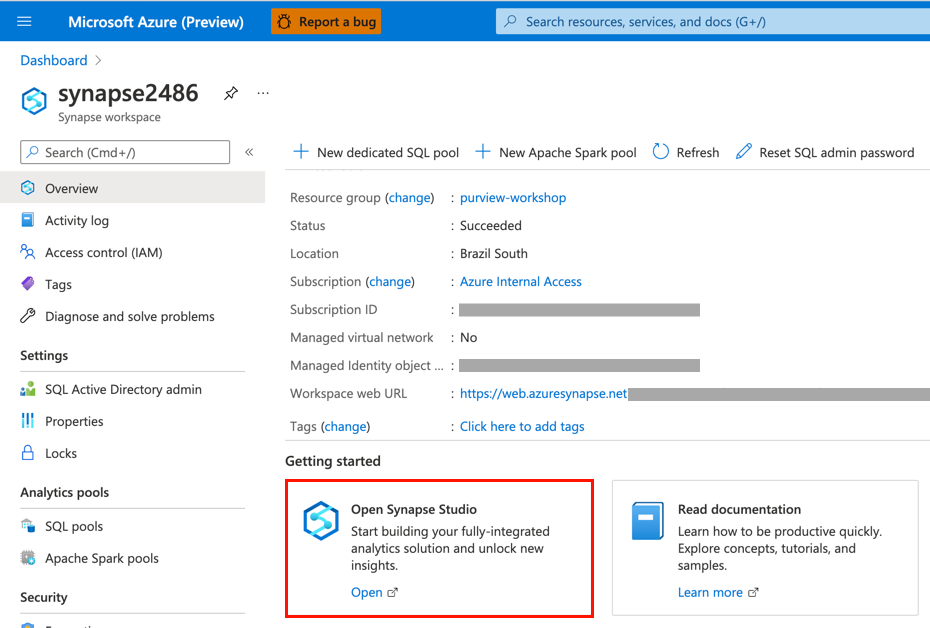
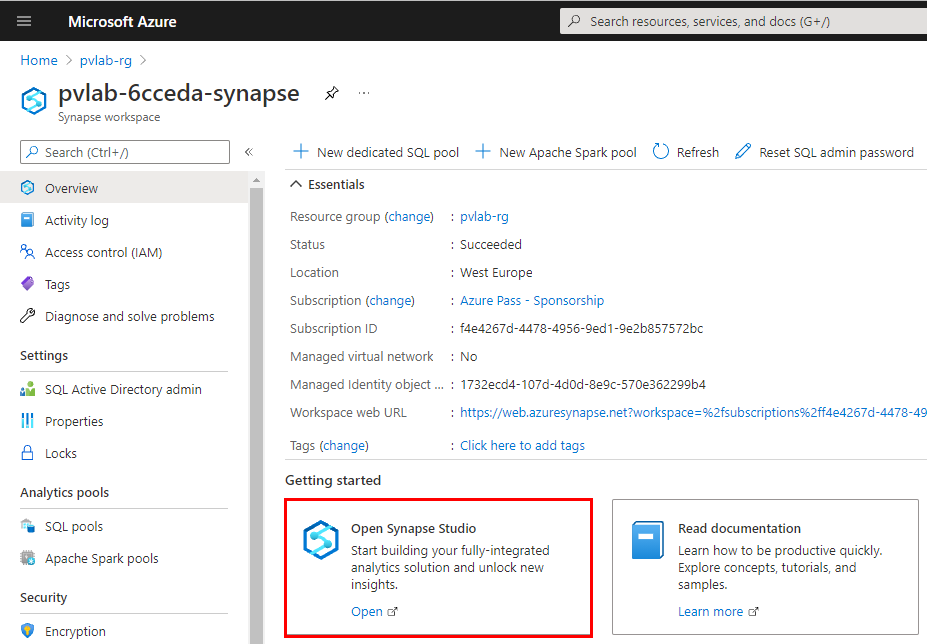
module09

Changed region(s): [[0.0, 0.2118, 1.0, 1.0], [0.0, 0.0, 1.0, 0.5143]]

diff --git a/modules/module09.md b/modules/module09.md
@@ -10,7 +10,7 @@
 
 ## :loudspeaker: Introduction
 
-Registering an Azure Purview account to a Synapse workspace allows you to discover Azure Purview assets and interact with them through Synapse specific capabilities.
+Registering an Azure Purview account to a Synapse workspace allows you to discover Azure Purview assets, interact with them through Synapse specific capabilities, and push lineage information to Azure Purview.
 
 ## :dart: Objectives
 
@@ -28,8 +28,11 @@ Registering an Azure Purview account to a Synapse workspace allows you to discov
 
 ## 1. Azure Data Lake Storage Gen2 Account Access
 
-* This particular unit builds upon  previous modules (e.g. pre-provisioned Azure Purview account with an Azure Data Lake Storage Gen2 account registered and scanned, see prerequisites for more details).
-* While this exercise will focus on how to integrate Azure Purview with Azure Synapse Analytics, if you would like to test the ability to connect to external sources within Synapse Studio, you will need to ensure the account being used to perform ad-hoc queries has sufficient privileges (e.g. Storage Blob Data Reader).
+> :bulb: **Did you know?**
+>
+> One of the key benefits of integrating Azure Purview with Azure Synapse Analytics, is the ability to discover Azure Purview assets from within Synapse Studio (i.e. no need to swtich between experiences) with the added ability to interact using Synapse specific capabilities (e.g. SELECT TOP 100). 
+>
+> Note: Before we can demonstrate the ability to query external data sources from Azure Synapse Analytics, we need to ensure our account has the appropriate level of access (i.e. `Storage Blob Data Reader`).
 
 1. Navigate to the **Access Control (IAM)** screen within the Azure Data Lake Storage Gen2 account provisioned in [module 02](../modules/module02.md) and click **Add role assignments**.
 
@@ -44,41 +47,6 @@ Registering an Azure Purview account to a Synapse workspace allows you to discov
     | Select | `<account-name>` |
 
     ![Storage RBAC Assignment](../images/module09/09.02-storage-rbac.png)
-
-<div align="right"><a href="#module-09---integrate-with-azure-synapse-analytics">↥ back to top</a></div>
-
-## 2. Create an Azure Synapse Analytics Workspace
-
-1. Navigate to the Azure Portal and create an **Azure Synapse Analytics** resource.
-
-    ![Azure Marketplace Synapse](../images/module09/09.03-marketplace-synapse.png)
-
-2. Provide the necessary inputs on the **Basics** tab and click **Next: Security >**.
-
-    > Note: The table below provides example values for illustrative purposes only, ensure to specify values that make sense for your deployment.
-
-    | Parameter  | Example Value |
-    | --- | --- |
-    | Subscription | `Azure Internal Access` |
-    | Resource group | `purview-workshop` |
-    | Workspace name | `synapse2486` |
-    | Region | `Brazil South` |
-    | (ADLS Gen2) Account name | `(Create new) synapseadls2486` |
-    | (ADLS Gen2)  File system name | `(Create new) synapsefs2486` |
-
-    ![Create Synapse Workspace](../images/module09/09.04-synapse-basics.png)
-
-3. Enter a **password** for the SQL administrator and click **Review + create**.
-
-    ![Synapse Workspace Security](../images/module09/09.05-synapse-security.png)
-
-4. Click **Create**.
-
-    ![Validate Synapse Workspace](../images/module09/09.06-synapse-validate.png)
-
-5. Monitor your deployment until the status changes to **Your deployment is complete**.
-
-    ![Synapse Workspace Deployment Complete](../images/module09/09.07-synapse-deployment.png)
 
 <div align="right"><a href="#module-09---integrate-with-azure-synapse-analytics">↥ back to top</a></div>
 
